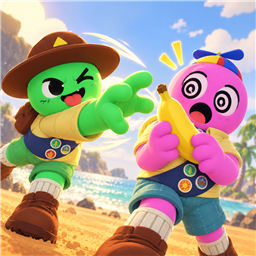
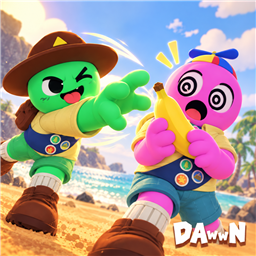
Publish DAwwN covers and bilingual gameplay comic in 1.0.9

diff --git a/Plugin.cs b/Plugin.cs
@@ -27,6 +27,6 @@ namespace Expelliarmus
     {
         public const string GUID = "com.dawwnforu.expelliarmus";
         public const string Name = "Expelliarmus";
-        public const string Version = "1.0.8";
+        public const string Version = "1.0.9";
     }
 }

diff --git a/thunderstore/README.md b/thunderstore/README.md
@@ -8,6 +8,17 @@ Your teammate has a banana. You have a reaching hand.
 
 **Hold right-click and aim at a teammate's held item to take it.** You can start reaching before aiming. Release the button before grabbing again.
 
+
+![Expelliarmus — DAwwN](https://raw.githubusercontent.com/dawwnforu/Expelliarmus/master/artwork/cover-beach.png)
+
+
+## 玩法小剧场 / Co-op mischief
+
+![双语玩法漫画 / Bilingual gameplay comic](https://raw.githubusercontent.com/dawwnforu/Expelliarmus/master/artwork/gameplay-comic-bilingual.png)
+
+队友先到，我随后；损友的好意，原样奉还。
+You first. I'll catch up. A kind offer, returned to sender.
+
 ## How to play
 
 - Uses PEAK's secondary-use/reach binding (right mouse button by default), including custom bindings.

diff --git a/README.md b/README.md
@@ -1,10 +1,21 @@
-# Expelliarmus / 除你武器 1.0.8
+# Expelliarmus / 除你武器 1.0.9
 
 你的零食？现在是我的了。给损友一点小小的反击！ / Your snack? Mine now. A little payback for your prankster pals.
 
 [新手安装与更新 / Beginner installation and updates](#新手安装与更新--beginner-installation-and-updates)
 
 PEAK BepInEx Mod：伸出右手，瞄准队友手中的物品，将它抢到自己手里。
+
+
+![Expelliarmus — DAwwN](artwork/cover-beach.png)
+
+
+## 玩法小剧场 / Co-op mischief
+
+![双语玩法漫画 / Bilingual gameplay comic](artwork/gameplay-comic-bilingual.png)
+
+队友先到，我随后；损友的好意，原样奉还。
+You first. I'll catch up. A kind offer, returned to sender.
 
 ## 操作
 

diff --git a/thunderstore/CHANGELOG.md b/thunderstore/CHANGELOG.md
@@ -1,3 +1,8 @@
+# 1.0.9
+
+- New PEAK-inspired DAwwN watermark covers and a bilingual gameplay comic. No gameplay changes.
+- 更新 DAwwN 风格水印封面，加入中英双语玩法漫画；玩法不变。
+
 # 1.0.8
 
 - Short bilingual listing description focused on playful co-op fun. Controls and testing details remain in the full description. No gameplay changes.
